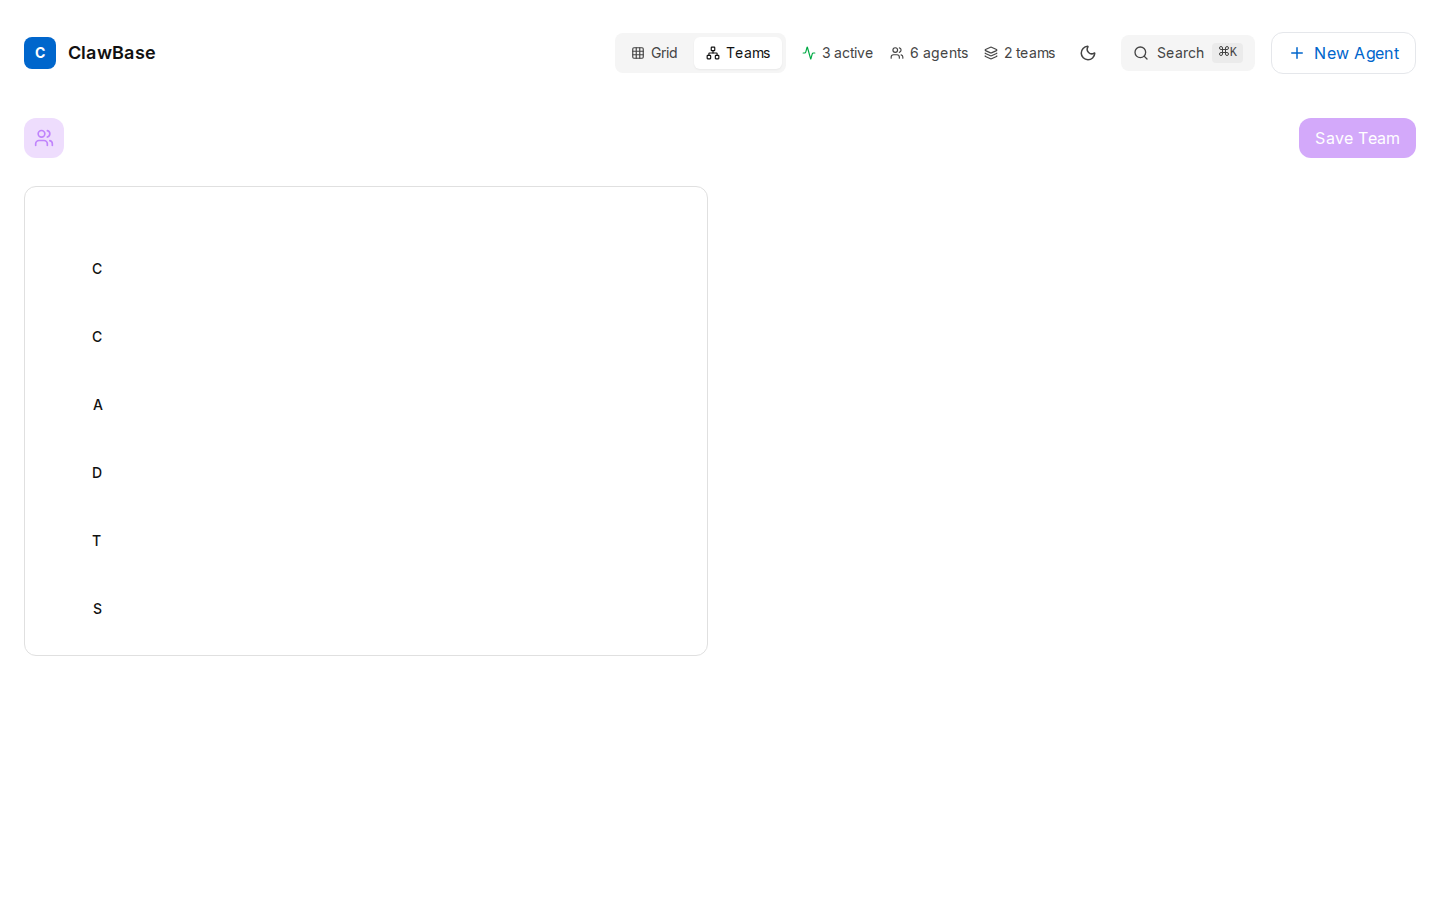
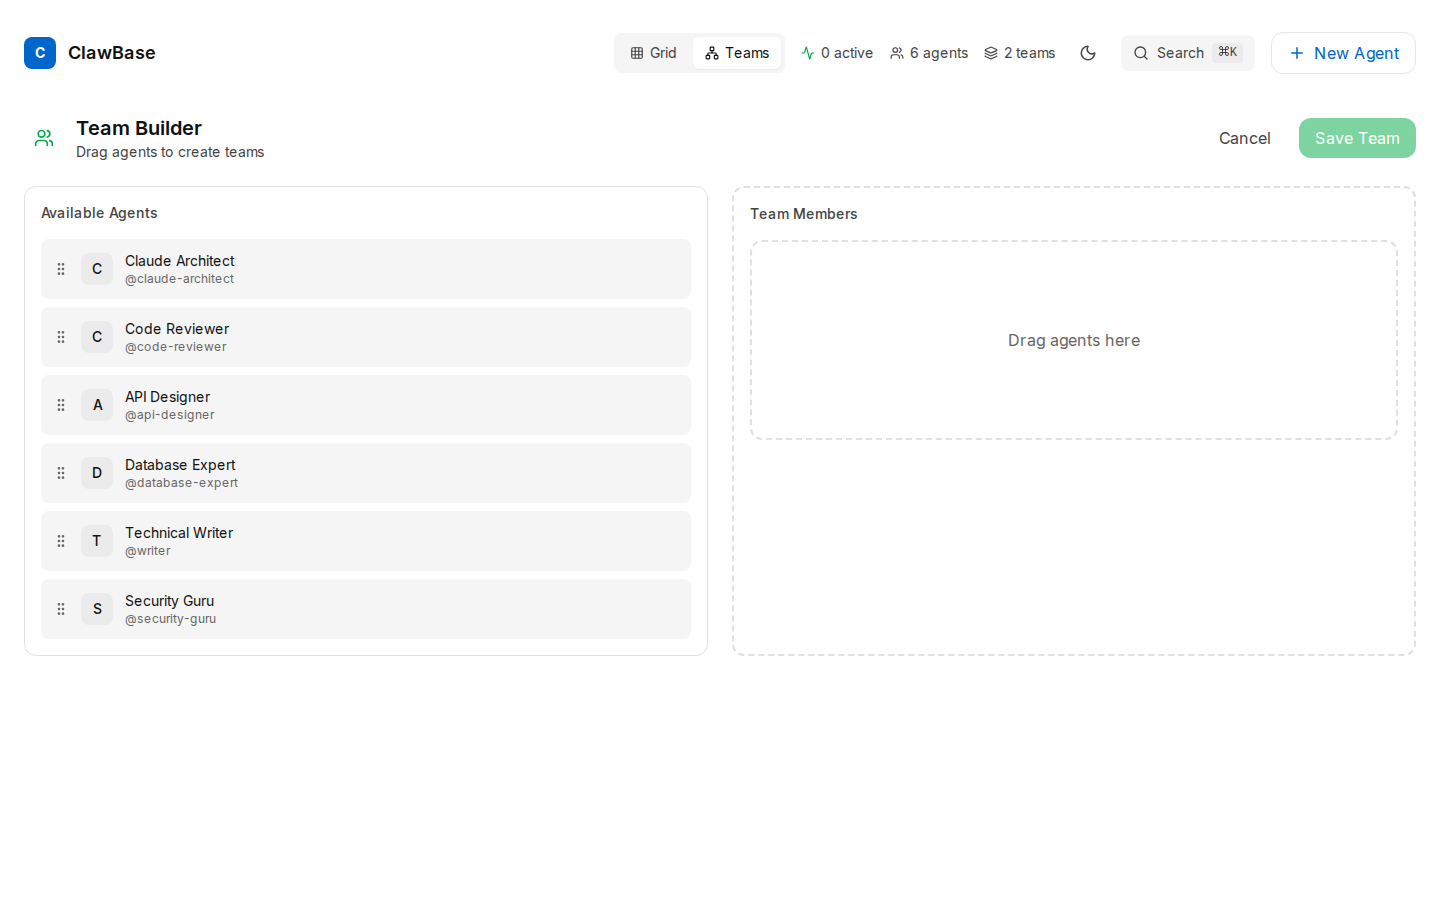
fix(clawbase): fix TeamBuilder with CSS variables
TeamBuilder now uses CSS variables throughout:
- Team Builder title and subtitle visible
- Available Agents list with proper styling
- Agent names and IDs readable
- Team Members drop zone visible
- Drag agents here placeholder visible
- Cancel and Save Team buttons styled
- Leader crown icon uses accent color

All light mode screens now render correctly!

diff --git a/clawbase/src/components/teams/TeamBuilder.tsx b/clawbase/src/components/teams/TeamBuilder.tsx
@@ -53,29 +53,29 @@ function SortableAgentItem({ agent, isLeader, onRemove, onSetLeader }: SortableA
     <div
       ref={setNodeRef}
       style={style}
-      className="flex items-center gap-2 p-2 rounded-lg bg-white/5 group"
+      className="flex items-center gap-2 p-2 rounded-lg bg-[var(--bg-secondary)] group"
     >
       <button
         {...attributes}
         {...listeners}
-        className="p-1 rounded hover:bg-white/10 cursor-grab active:cursor-grabbing"
+        className="p-1 rounded hover:bg-[var(--bg-tertiary)] cursor-grab active:cursor-grabbing"
       >
-        <GripVertical size={16} className="text-white/30" />
+        <GripVertical size={16} className="text-[var(--text-tertiary)]" />
       </button>
 
-      <div className="w-8 h-8 rounded-lg bg-white/10 flex items-center justify-center text-sm font-medium">
+      <div className="w-8 h-8 rounded-lg bg-[var(--bg-tertiary)] flex items-center justify-center text-sm font-medium text-[var(--text-primary)]">
         {agent.config.name.charAt(0).toUpperCase()}
       </div>
 
       <div className="flex-1">
-        <p className="text-sm text-white">{agent.config.name}</p>
-        <p className="text-xs text-white/40">@{agent.id}</p>
+        <p className="text-sm text-[var(--text-primary)]">{agent.config.name}</p>
+        <p className="text-xs text-[var(--text-tertiary)]">@{agent.id}</p>
       </div>
 
       <button
         onClick={onSetLeader}
         className={`p-1.5 rounded transition-colors ${
-          isLeader ? 'text-yellow-400 bg-yellow-400/20' : 'text-white/30 hover:text-yellow-400'
+          isLeader ? 'text-[var(--accent-secondary)] bg-[var(--accent-secondary)]/20' : 'text-[var(--text-tertiary)] hover:text-[var(--accent-secondary)]'
         }`}
         title={isLeader ? 'Leader' : 'Set as leader'}
       >
@@ -84,7 +84,7 @@ function SortableAgentItem({ agent, isLeader, onRemove, onSetLeader }: SortableA
 
       <button
         onClick={onRemove}
-        className="p-1.5 rounded text-white/30 hover:text-red-400 hover:bg-red-400/20 transition-colors opacity-0 group-hover:opacity-100"
+        className="p-1.5 rounded text-[var(--text-tertiary)] hover:text-red-500 hover:bg-red-500/20 transition-colors opacity-0 group-hover:opacity-100"
       >
         <X size={14} />
       </button>
@@ -126,7 +126,6 @@ export function TeamBuilder({ onClose }: TeamBuilderProps) {
 
     if (activeId === overId) return;
 
-    // Check if dragging from available to team
     const isActiveAvailable = availableAgents.some((a) => a.id === activeId);
     const isOverTeam = overId === 'team-drop-zone' || teamAgents.some((a) => a.id === overId);
 
@@ -150,7 +149,6 @@ export function TeamBuilder({ onClose }: TeamBuilderProps) {
 
     if (activeId === overId) return;
 
-    // Reorder within team
     if (teamAgents.some((a) => a.id === activeId) && teamAgents.some((a) => a.id === overId)) {
       const oldIndex = teamAgents.findIndex((a) => a.id === activeId);
       const newIndex = teamAgents.findIndex((a) => a.id === overId);
@@ -159,7 +157,6 @@ export function TeamBuilder({ onClose }: TeamBuilderProps) {
   };
 
   const handleSave = () => {
-    // TODO: API call to save team
     console.log('Saving team:', {
       agents: teamAgents.map((a) => a.id),
       leader: leaderId,
@@ -175,26 +172,26 @@ export function TeamBuilder({ onClose }: TeamBuilderProps) {
     >
       <div className="flex items-center justify-between mb-6">
         <div className="flex items-center gap-3">
-          <div className="w-10 h-10 rounded-xl bg-purple-500/20 flex items-center justify-center">
-            <Users size={20} className="text-purple-400" />
+          <div className="w-10 h-10 rounded-xl bg-[var(--accent-secondary)]/10 flex items-center justify-center">
+            <Users size={20} className="text-[var(--accent-secondary)]" />
           </div>
           <div>
-            <h2 className="text-xl font-semibold text-white">Team Builder</h2>
-            <p className="text-sm text-white/50">Drag agents to create teams</p>
+            <h2 className="text-xl font-semibold text-[var(--text-primary)]">Team Builder</h2>
+            <p className="text-sm text-[var(--text-secondary)]">Drag agents to create teams</p>
           </div>
         </div>
 
         <div className="flex items-center gap-3">
           <button
             onClick={onClose}
-            className="px-4 py-2 rounded-xl text-white/70 hover:bg-white/10 transition-colors"
+            className="px-4 py-2 rounded-xl text-[var(--text-secondary)] hover:bg-[var(--bg-secondary)] transition-colors"
           >
             Cancel
           </button>
           <button
             onClick={handleSave}
             disabled={teamAgents.length < 2}
-            className="px-4 py-2 rounded-xl bg-purple-500 text-white hover:bg-purple-600 transition-colors disabled:opacity-50"
+            className="px-4 py-2 rounded-xl bg-[var(--accent-secondary)] text-white hover:opacity-90 transition-opacity disabled:opacity-50"
           >
             Save Team
           </button>
@@ -211,23 +208,23 @@ export function TeamBuilder({ onClose }: TeamBuilderProps) {
         <div className="grid grid-cols-2 gap-6">
           {/* Available Agents */}
           <GlassCard className="p-4" hover={false}>
-            <h3 className="text-sm font-medium text-white/60 mb-4">Available Agents</h3>
+            <h3 className="text-sm font-medium text-[var(--text-secondary)] mb-4">Available Agents</h3>
             <div className="space-y-2 max-h-[400px] overflow-y-auto">
               {availableAgents.length === 0 ? (
-                <p className="text-center text-white/30 py-8">All agents assigned</p>
+                <p className="text-center text-[var(--text-tertiary)] py-8">All agents assigned</p>
               ) : (
                 availableAgents.map((agent) => (
                   <div
                     key={agent.id}
-                    className="flex items-center gap-3 p-3 rounded-lg bg-white/5 cursor-grab active:cursor-grabbing hover:bg-white/10 transition-colors"
+                    className="flex items-center gap-3 p-3 rounded-lg bg-[var(--bg-secondary)] cursor-grab active:cursor-grabbing hover:bg-[var(--bg-tertiary)] transition-colors"
                   >
-                    <GripVertical size={16} className="text-white/30" />
-                    <div className="w-8 h-8 rounded-lg bg-white/10 flex items-center justify-center text-sm font-medium">
+                    <GripVertical size={16} className="text-[var(--text-tertiary)]" />
+                    <div className="w-8 h-8 rounded-lg bg-[var(--bg-tertiary)] flex items-center justify-center text-sm font-medium text-[var(--text-primary)]">
                       {agent.config.name.charAt(0).toUpperCase()}
                     </div>
                     <div>
-                      <p className="text-sm text-white">{agent.config.name}</p>
-                      <p className="text-xs text-white/40">@{agent.id}</p>
+                      <p className="text-sm text-[var(--text-primary)]">{agent.config.name}</p>
+                      <p className="text-xs text-[var(--text-tertiary)]">@{agent.id}</p>
                     </div>
                   </div>
                 ))
@@ -237,17 +234,17 @@ export function TeamBuilder({ onClose }: TeamBuilderProps) {
 
           {/* Team Drop Zone */}
           <GlassCard
-            className="p-4 border-2 border-dashed border-white/10"
+            className="p-4 border-2 border-dashed border-[var(--border-color)]"
             hover={false}
           >
-            <h3 className="text-sm font-medium text-white/60 mb-4">
+            <h3 className="text-sm font-medium text-[var(--text-secondary)] mb-4">
               Team Members {teamAgents.length > 0 && `(${teamAgents.length})`}
             </h3>
 
             <SortableContext items={teamAgents.map((a) => a.id)}>
               <div className="space-y-2 min-h-[200px]">
                 {teamAgents.length === 0 ? (
-                  <div className="h-[200px] flex items-center justify-center text-white/30 border-2 border-dashed border-white/10 rounded-xl">
+                  <div className="h-[200px] flex items-center justify-center text-[var(--text-tertiary)] border-2 border-dashed border-[var(--border-color)] rounded-xl">
                     <p>Drag agents here</p>
                   </div>
                 ) : (
@@ -271,9 +268,9 @@ export function TeamBuilder({ onClose }: TeamBuilderProps) {
             </SortableContext>
 
             {teamAgents.length >= 2 && (
-              <div className="mt-4 pt-4 border-t border-white/[0.08]">
-                <p className="text-sm text-white/50">
-                  Leader: <span className="text-yellow-400">@{leaderId}</span>
+              <div className="mt-4 pt-4 border-t border-[var(--border-color)]">
+                <p className="text-sm text-[var(--text-secondary)]">
+                  Leader: <span className="text-[var(--accent-secondary)]">@{leaderId}</span>
                 </p>
               </div>
             )}
@@ -282,11 +279,11 @@ export function TeamBuilder({ onClose }: TeamBuilderProps) {
 
         <DragOverlay>
           {activeId ? (
-            <div className="flex items-center gap-3 p-3 rounded-lg bg-white/10 shadow-xl">
-              <div className="w-8 h-8 rounded-lg bg-purple-500/20 flex items-center justify-center">
+            <div className="flex items-center gap-3 p-3 rounded-lg bg-[var(--bg-card)] shadow-xl">
+              <div className="w-8 h-8 rounded-lg bg-[var(--accent-secondary)]/20 flex items-center justify-center text-[var(--text-primary)]">
                 {agents.find((a) => a.id === activeId)?.config.name.charAt(0).toUpperCase()}
               </div>
-              <span className="text-white">@{activeId}</span>
+              <span className="text-[var(--text-primary)]">@{activeId}</span>
             </div>
           ) : null}
         </DragOverlay>
